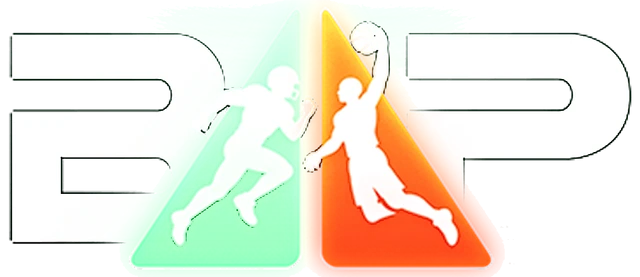
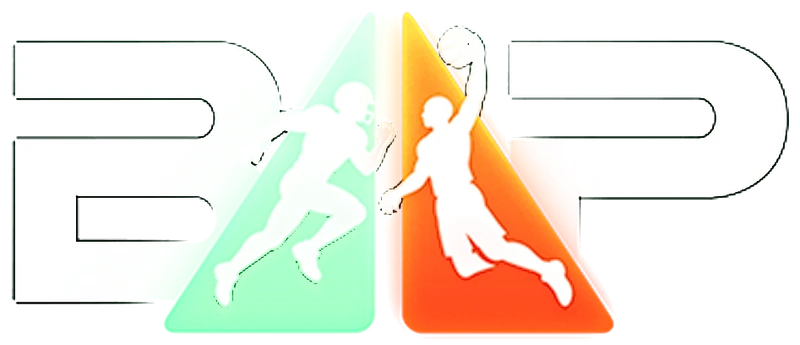
BAP mark: trimmed the leaked glow, and bigger
The faint tail of the icon's glow came through as a haze around the
triangles and letters; the cut now keeps only the bright glow at their
edges. Larger on home (66px, 86px on desktop) and in the navbar (30/40px).

diff --git a/src/app-game.css b/src/app-game.css
@@ -4093,3 +4093,9 @@ html.app-look .ag-blacktop:hover .bt-art-cone { opacity: 1; }
 /* final report: no hole above New Build (an empty ad slot reserved up to 270px, plus the row margin) */
 html:is(.is-app, .app-look) #ramp-cntr1-sim:empty { display: none !important; min-height: 0 !important; }
 html:is(.is-app, .app-look) .simp-final-actions { margin-top: 12px; }
+
+/* the BAP mark (cut from the app icon): bigger on home and in the navbar */
+.ag-brand-mark { height: 66px; }
+@media (min-width: 1024px) { html.app-look .ag-brand-mark { height: 86px; } }
+html:is(.is-app, .app-look) .logo-img-full { height: 30px; }
+@media (min-width: 769px) { html:is(.is-app, .app-look) .logo-img-full { height: 40px; } }
